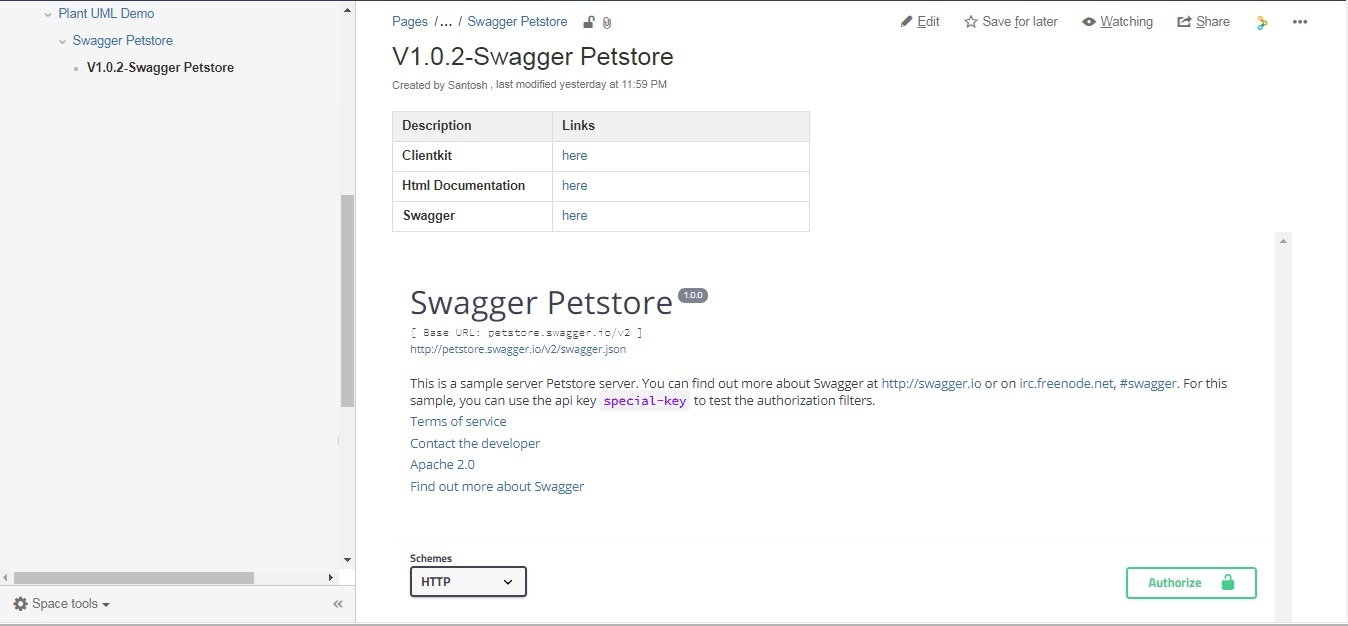
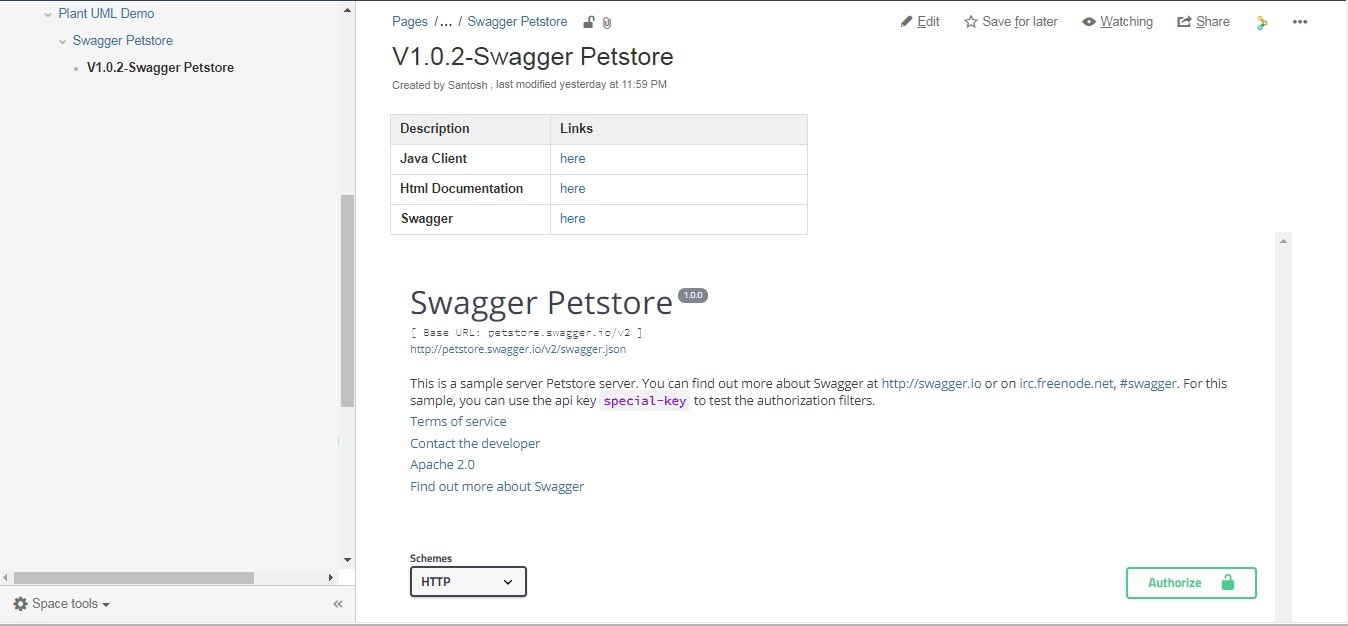
Updating Images to reflect Industry words

Changed region(s): [[0.2804, 0.1821, 0.592, 0.3946], [0.405, 0.1821, 0.4362, 0.2125]]

diff --git a/swagger2confluence-core/src/main/java/com/kicksolutions/swagger/confluence/Swagger2Confluence.java b/swagger2confluence-core/src/main/java/com/kicksolutions/swagger/confluence/Swagger2Confluence.java
@@ -5,8 +5,8 @@ import java.util.logging.Logger;
 
 import org.apache.commons.lang3.StringUtils;
 
+import com.kicksolutions.cliargs.CliArgs;
 import com.kicksolutions.swagger.confluence.vo.ConfluenceVo;
-import com.kicksolutions.swagger.plantuml.cliargs.CliArgs;
 
 import io.swagger.models.Swagger;
 import io.swagger.parser.SwaggerParser;
@@ -152,7 +152,7 @@ public class Swagger2Confluence {
 		if(StringUtils.isNotEmpty(clientkitURL)){
 			macroString.append("<tr>")
 			.append("<td colspan=\"1\">")
-			.append("<strong>Clientkit</strong>")
+			.append("<strong>Java Client</strong>")
 			.append("</td>")
 			.append("<td colspan=\"1\">")
 			.append("<a href=\"")

diff --git a/swagger2confluence-core/src/main/java/com/kicksolutions/cliargs/CliArgs.java b/swagger2confluence-core/src/main/java/com/kicksolutions/cliargs/CliArgs.java
@@ -1,4 +1,4 @@
-package com.kicksolutions.swagger.plantuml.cliargs;
+package com.kicksolutions.cliargs;
 
 import java.util.HashMap;
 
